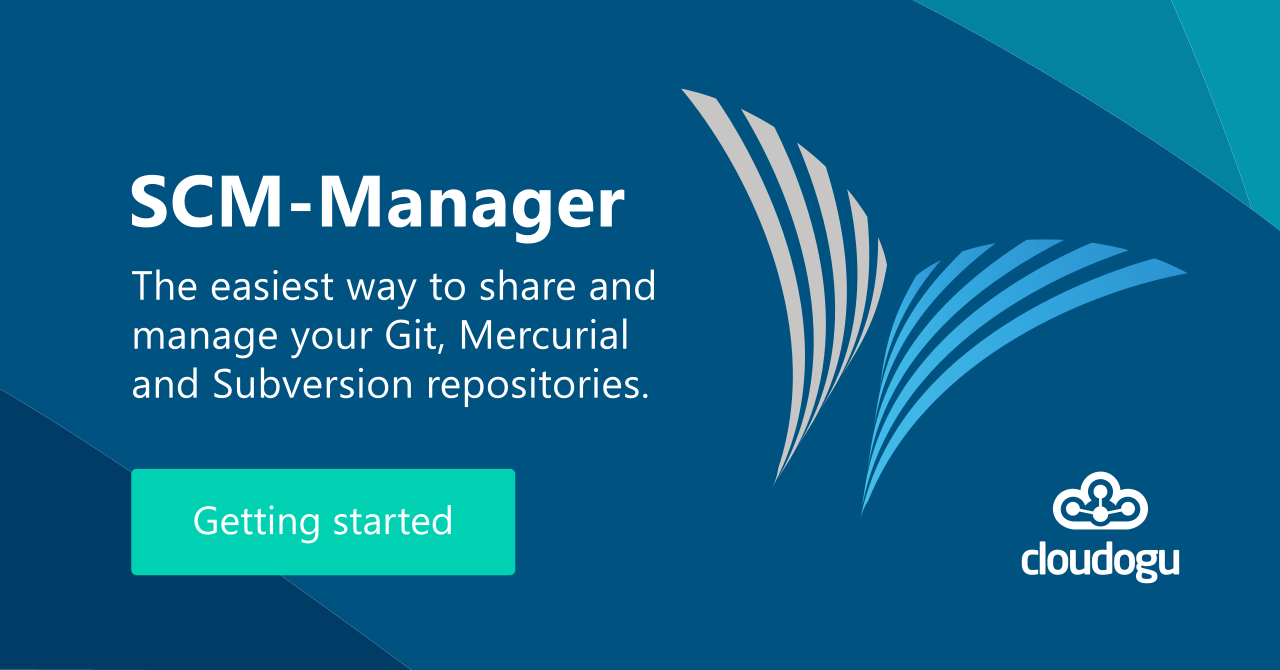
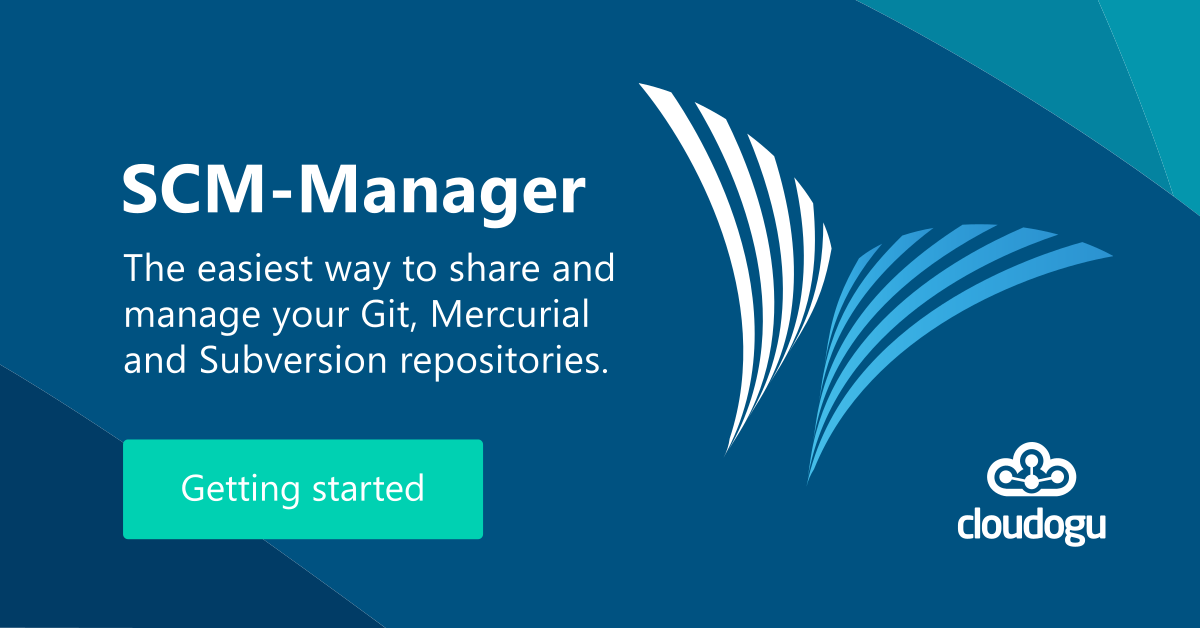
Improve new social sharing card layout

diff --git a/src/lib/social-sharing-card.html b/src/lib/social-sharing-card.html
@@ -23,7 +23,7 @@
     .title {
       font-size: 60px;
       font-family: Montserrat;
-      font-weight: 600;
+      font-weight: 700;
       text-overflow: ellipsis;
       margin: 0;
       color: #fff;
@@ -133,19 +133,19 @@
     </g>
     <g id="right">
       <g id="scm_logo" data-name="scm logo">
-        <path fill="#c7c6c5"
+        <path fill="#fff"
           d="M721.44,143.69l-.18.28C767.49,199,835.41,323.24,796.9,439.65a46.36,46.36,0,0,1-5.18,16c71-127.44-23.7-275.87-43.41-304.31a191.43,191.43,0,0,0-26.87-7.67"
           transform="translate(1.21 0.37)" />
-        <path fill="#c7c6c5"
+        <path fill="#fff"
           d="M796.05,448.77c65.39-112.08,2-239.7-28.31-289.35a254.85,254.85,0,0,1,26.13,14.25c28.5,57.42,67.92,167.54,11.63,259.84l-9.45,15.26"
           transform="translate(1.21 0.37)" />
-        <path fill="#c7c6c5"
+        <path fill="#fff"
           d="M812.27,422.56c14.28-24.48,57.76-99-.75-236.85A256.18,256.18,0,0,1,834,204.54c25.41,81.36,21.39,147.68-12.27,202.76Z"
           transform="translate(1.21 0.37)" />
-        <path fill="#c7c6c5"
+        <path fill="#fff"
           d="M829.85,394.16c12.93-22.16,43.19-74,20.84-172.11a177.91,177.91,0,0,1,15.75,21.63c3.62,40.38,2.86,84.72-27.15,135.22q-4.71,7.64-9.44,15.26"
           transform="translate(1.21 0.37)" />
-        <path fill="#c7c6c5"
+        <path fill="#fff"
           d="M846.08,368c9.47-16.25,29.17-50,28.75-108.35,1.11,2.49,2.1,5,3,7.46a91.82,91.82,0,0,1,3.94,14.29c-4.68,25.53-10.26,44.47-26.25,71.35Z"
           transform="translate(1.21 0.37)" />
         <g clip-path="url(#clip-path)">
